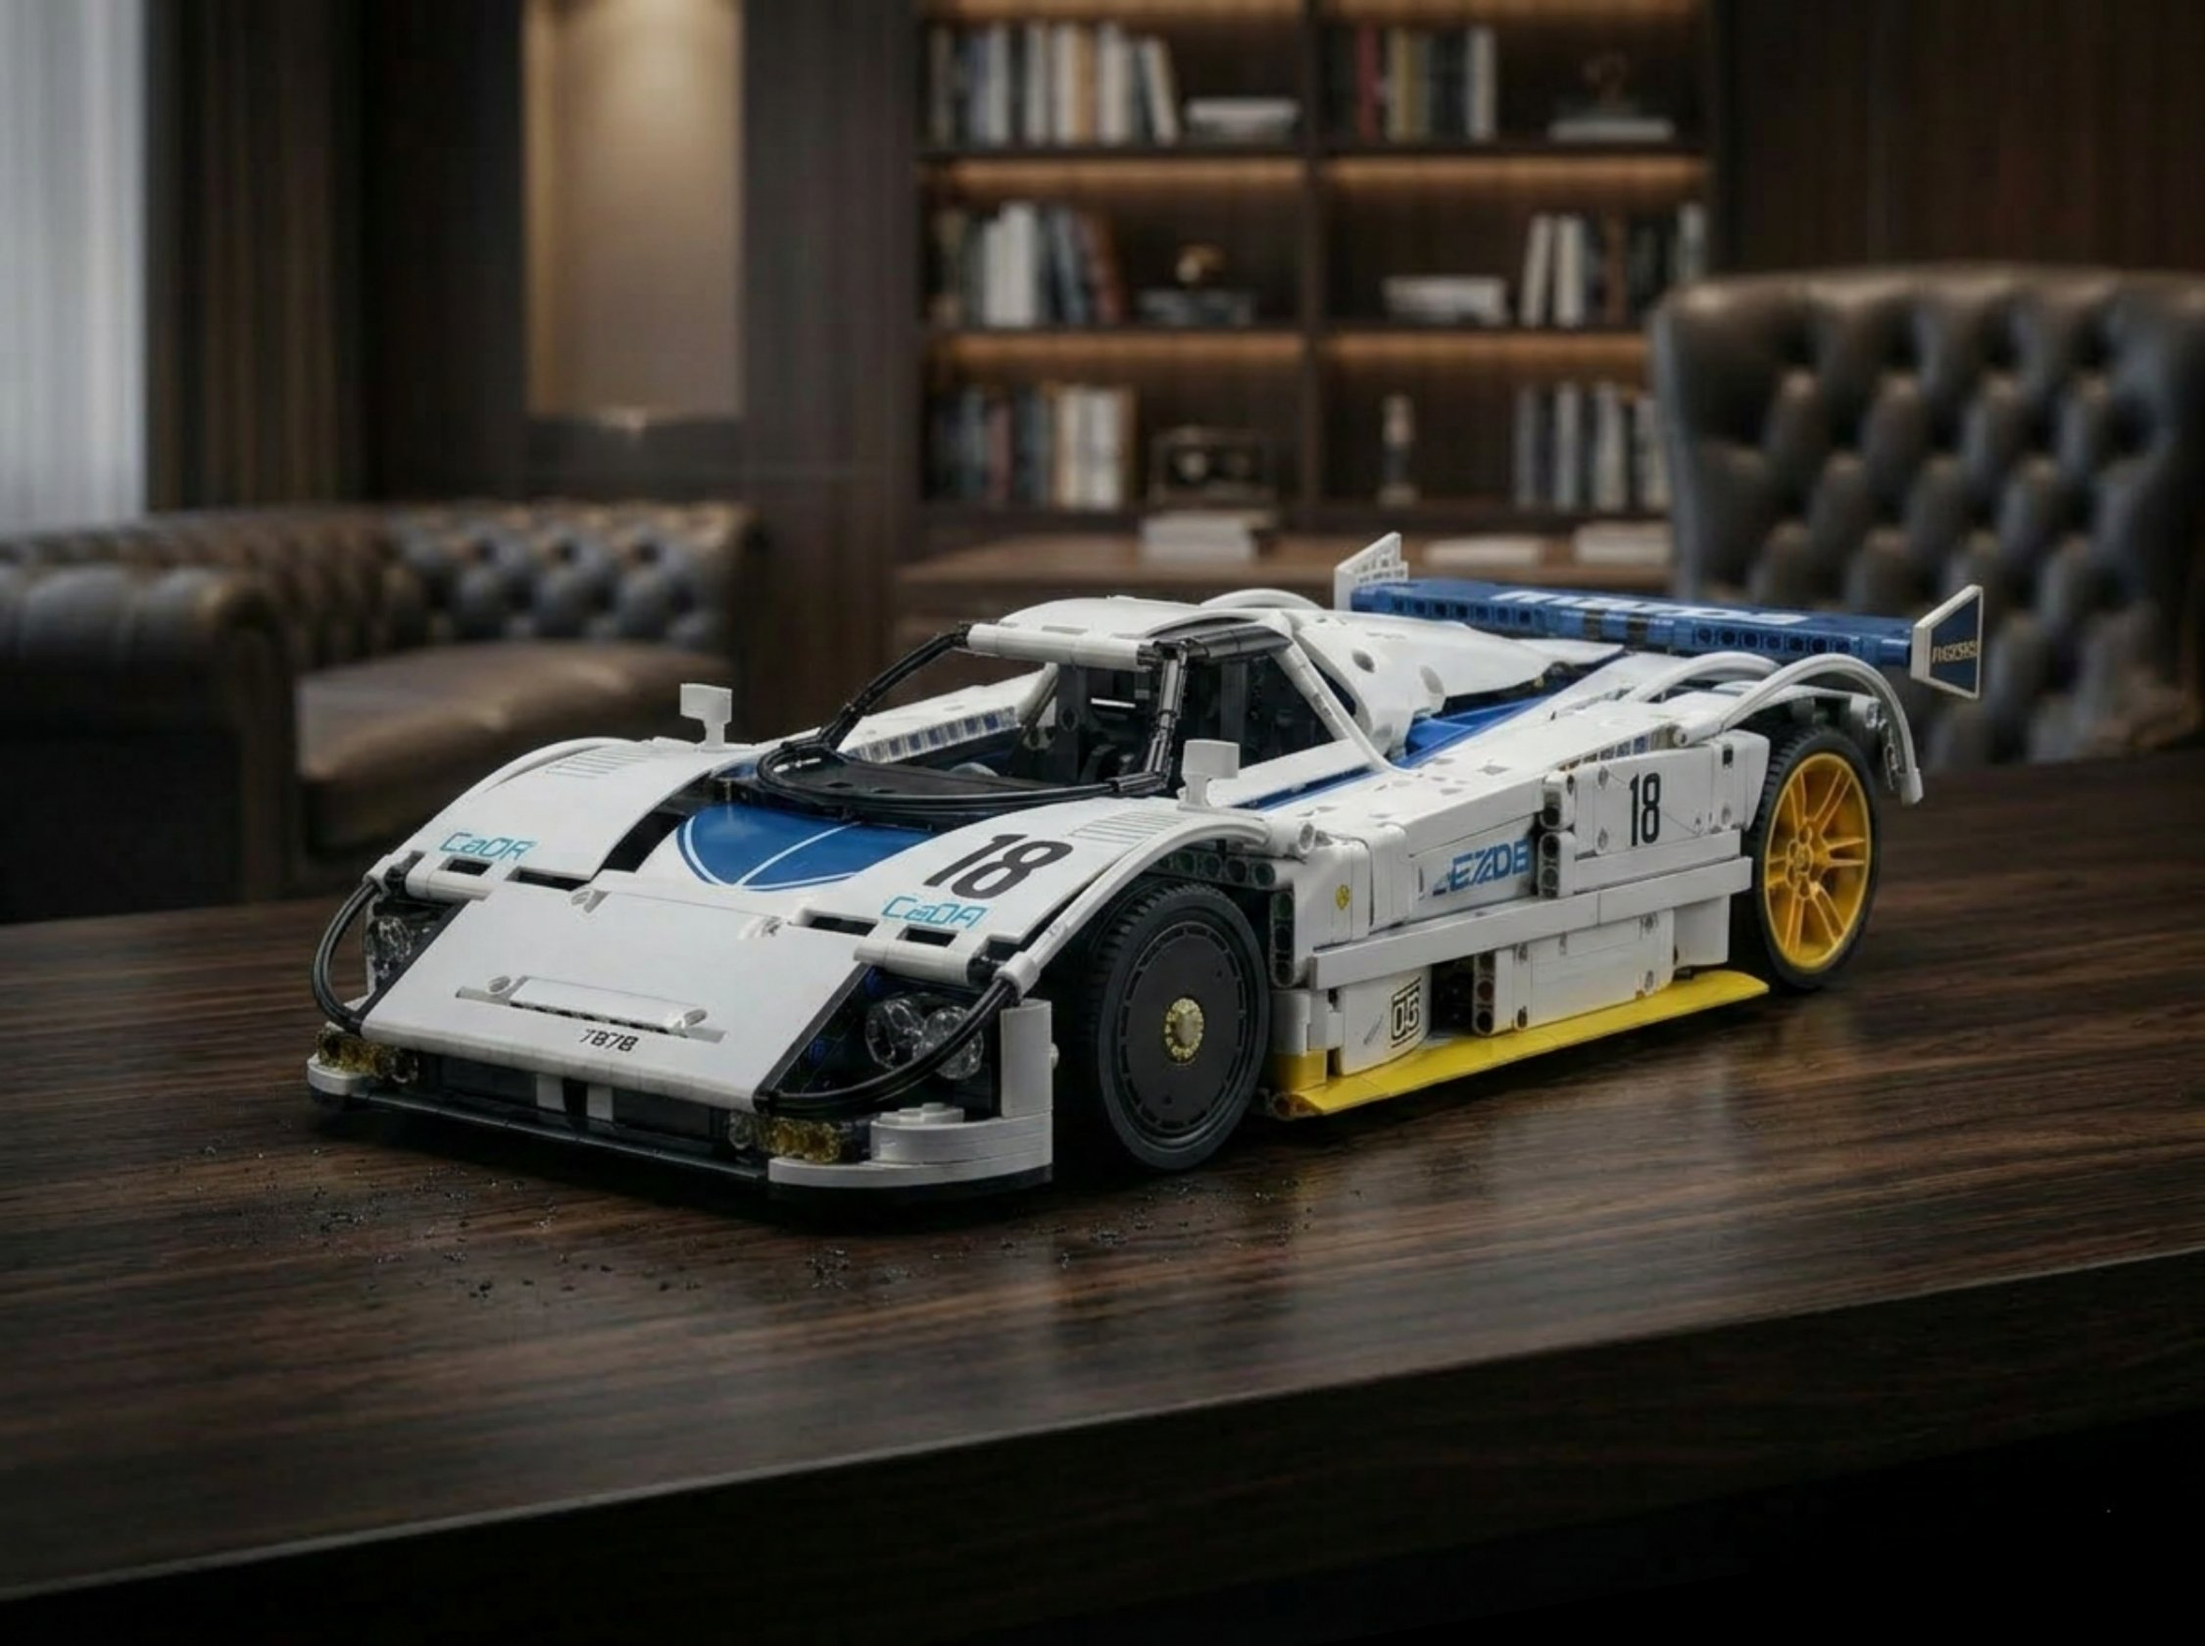
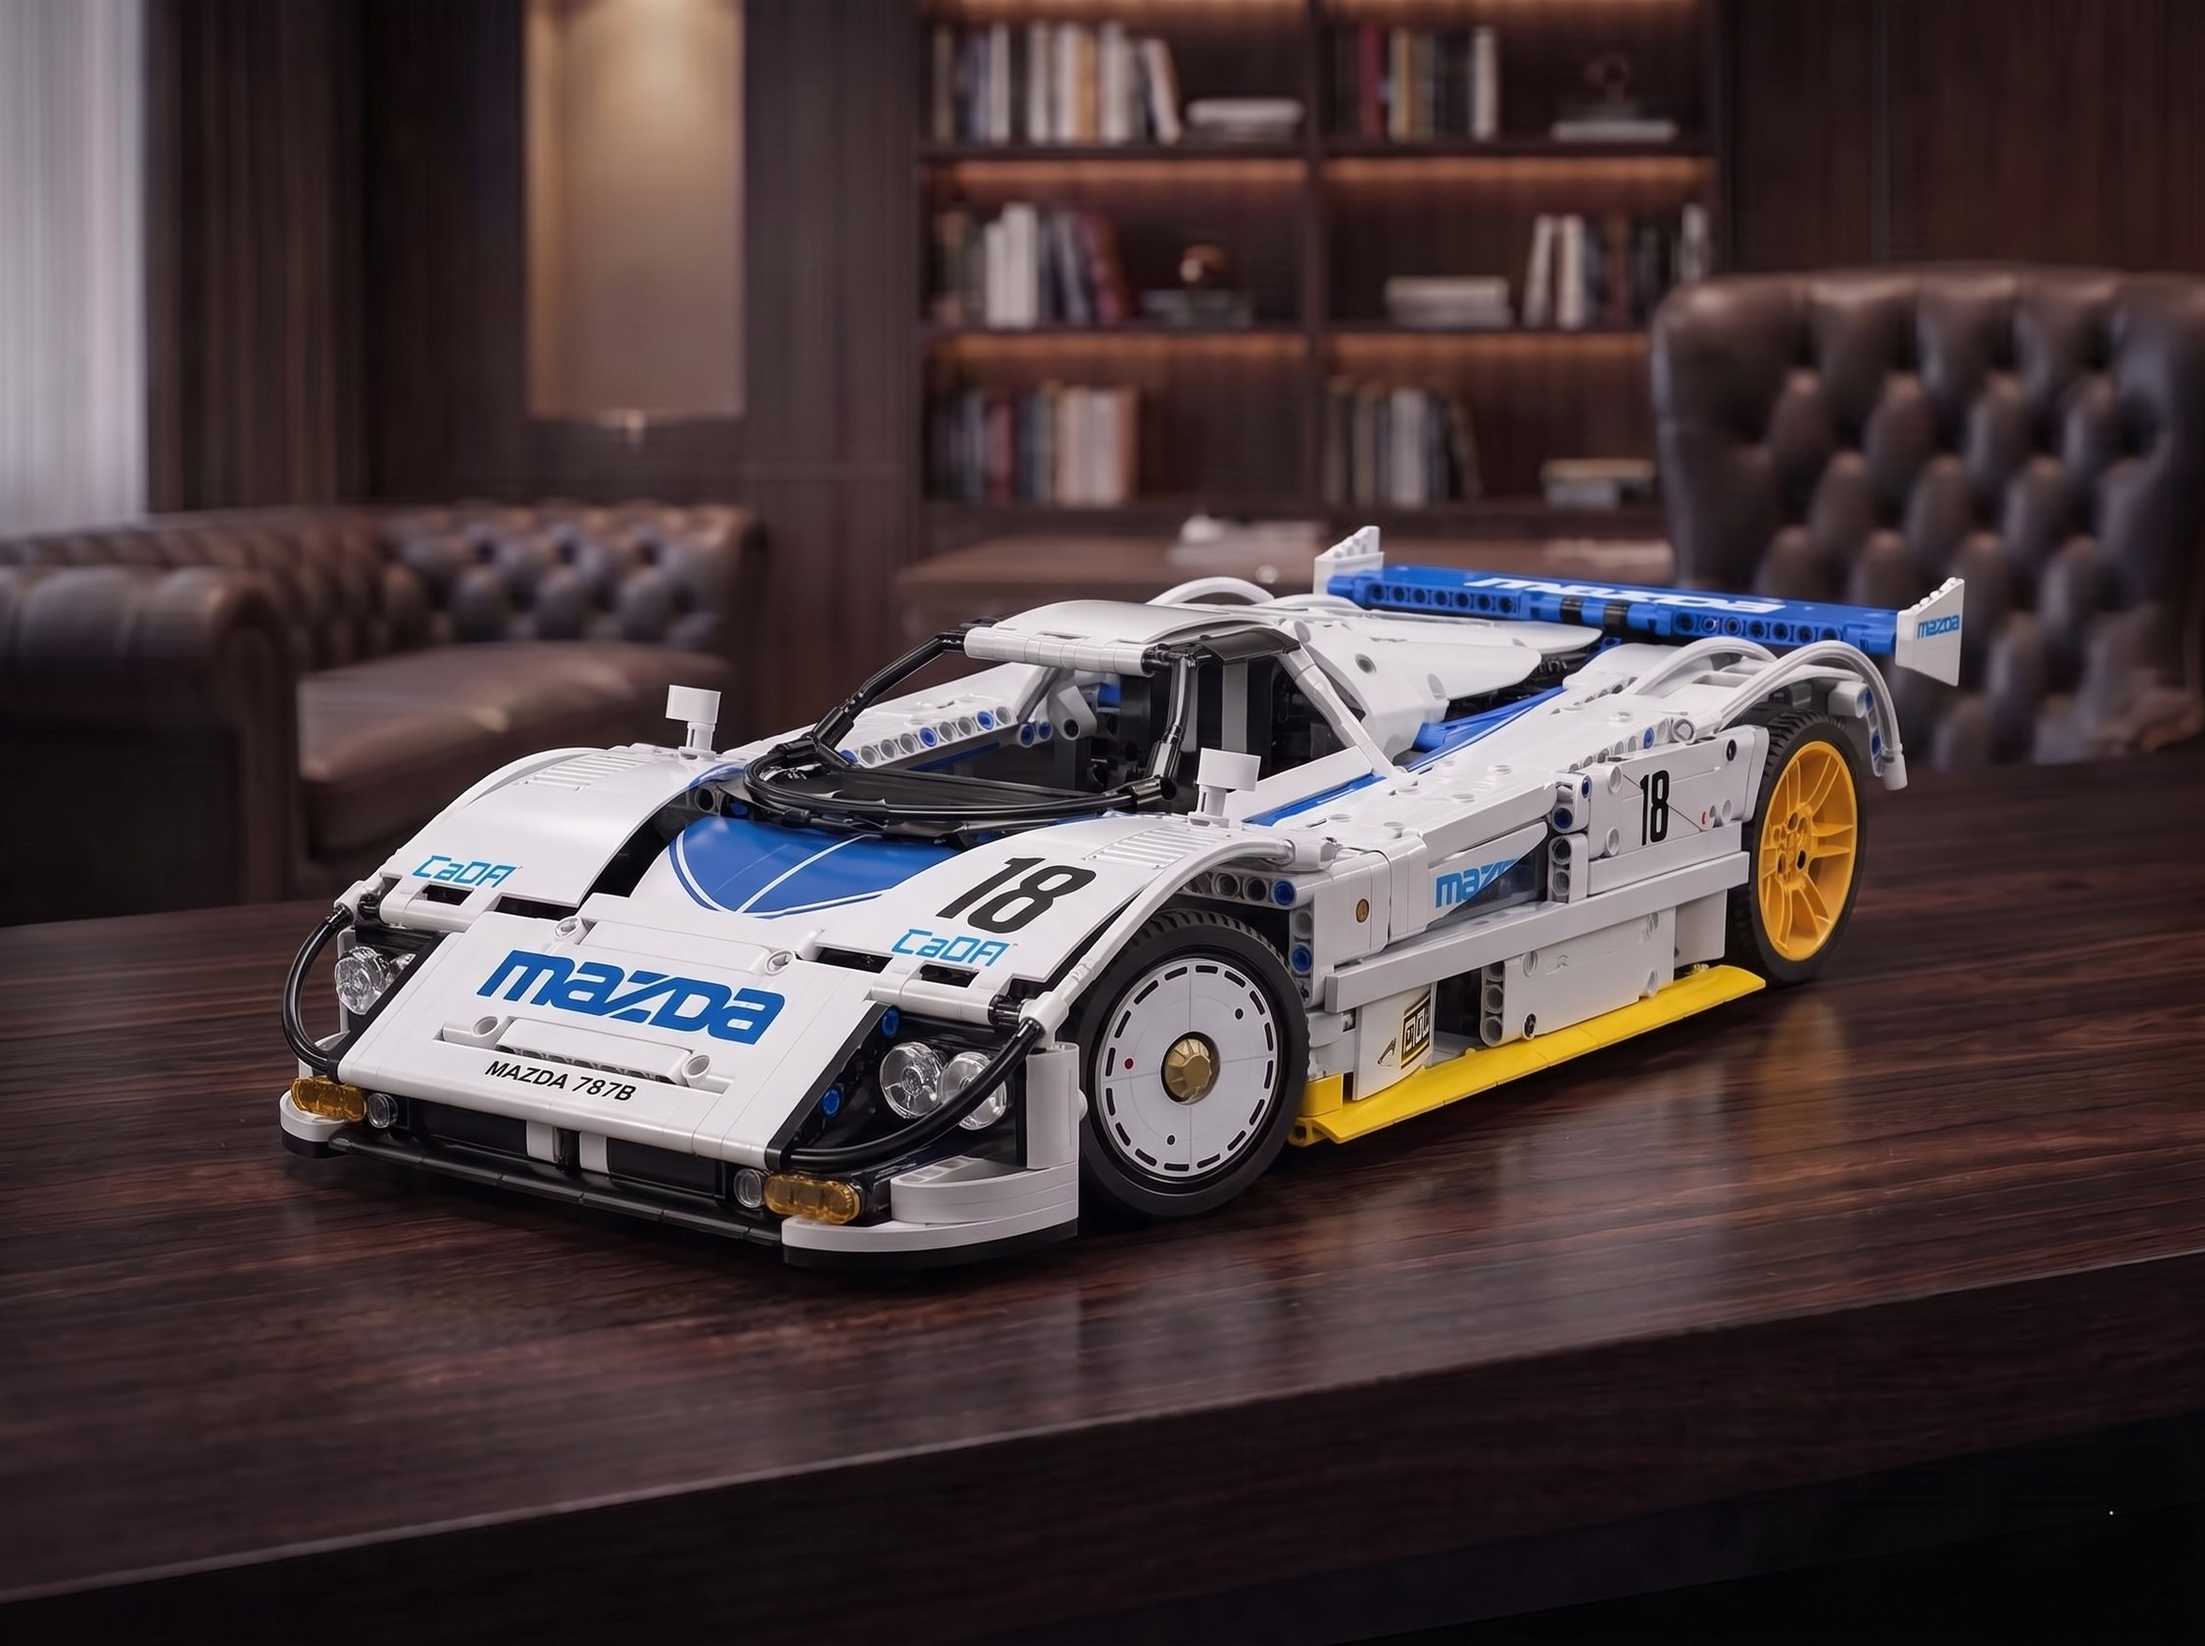
Fix S18-007 (Mazda 787B) cover and add gallery photos

diff --git a/site/src/lib/mockCatalog.ts b/site/src/lib/mockCatalog.ts
@@ -7,7 +7,7 @@ export const mockCatalog: CatalogProduct[] = [
   { id: 'S18-004', sku: 'S18-004', name: 'BMW M4 GT4', category: 'carro', brand_model: 'BMW M4 GT4', manufacturer: 'CBOX', collection_tag: 'Série GT', scale: '1:8', piece_count: 4556, sale_price_brl: 1739.36, image_url: '/products/S18-004.jpg', image_urls: ['/products/S18-004-frente.jpg', '/products/S18-004-traseira.jpg', '/products/S18-004-aberto.jpg', '/products/S18-004-motor.jpg', '/products/S18-004-interior.jpg', '/products/S18-004-caixa.jpg'], video_url: null, automotive_history: null, dimensions: null, spec_highlights: null, length_cm: null, height_cm: null, width_cm: null, quantity_available: 22 },
   { id: 'S18-005', sku: 'S18-005', name: 'Pagani Utopia', category: 'carro', brand_model: 'Pagani Utopia', manufacturer: 'CBOX', collection_tag: 'Supercarro', scale: '1:8', piece_count: 4688, sale_price_brl: 1353.66, image_url: '/products/S18-005.jpg', image_urls: [], video_url: null, automotive_history: null, dimensions: null, spec_highlights: null, length_cm: null, height_cm: null, width_cm: null, quantity_available: 8 },
   { id: 'S18-006', sku: 'S18-006', name: 'Lotus Exige Cup 430', category: 'carro', brand_model: 'Lotus Exige Cup 430', manufacturer: 'CADA', collection_tag: 'Supercarro', scale: '1:8', piece_count: 3730, sale_price_brl: 707.6, image_url: '/products/S18-006.jpg', image_urls: ['/products/S18-006-frente.jpg', '/products/S18-006-lateral.jpg', '/products/S18-006-traseira.jpg', '/products/S18-006-aberto.jpg', '/products/S18-006-motor.jpg', '/products/S18-006-caixa.jpg'], video_url: null, automotive_history: null, dimensions: null, spec_highlights: null, length_cm: null, height_cm: null, width_cm: null, quantity_available: 30 },
-  { id: 'S18-007', sku: 'S18-007', name: 'Mazda Le Mans Rally 787B', category: 'carro', brand_model: 'Mazda 787B', manufacturer: 'CADA', collection_tag: 'Lemans', scale: '1:8', piece_count: 1797, sale_price_brl: 642.99, image_url: '/products/S18-007.jpg', image_urls: [], video_url: null, automotive_history: null, dimensions: null, spec_highlights: null, length_cm: null, height_cm: null, width_cm: null, quantity_available: 2 },
+  { id: 'S18-007', sku: 'S18-007', name: 'Mazda Le Mans Rally 787B', category: 'carro', brand_model: 'Mazda 787B', manufacturer: 'CADA', collection_tag: 'Lemans', scale: '1:8', piece_count: 1797, sale_price_brl: 642.99, image_url: '/products/S18-007.jpg', image_urls: ['/products/S18-007-lateral.jpg', '/products/S18-007-traseira.jpg', '/products/S18-007-aberto.jpg', '/products/S18-007-caixa.jpg'], video_url: null, automotive_history: null, dimensions: null, spec_highlights: null, length_cm: null, height_cm: null, width_cm: null, quantity_available: 2 },
   { id: 'S18-008', sku: 'S18-008', name: '770-4 Touro Furioso', category: 'carro', brand_model: 'Pagani Huayra', manufacturer: 'CADA', collection_tag: 'Supercarro', scale: '1:8', piece_count: 3842, sale_price_brl: 1127.54, image_url: '/products/S18-008.jpg', image_urls: [], video_url: null, automotive_history: null, dimensions: null, spec_highlights: null, length_cm: null, height_cm: null, width_cm: null, quantity_available: 17 },
   { id: 'S18-009', sku: 'S18-009', name: 'Maserati Gran Turismo', category: 'carro', brand_model: 'Maserati Gran Turismo', manufacturer: 'REOBRIX', collection_tag: 'Supercarro', scale: '1:8', piece_count: 5480, sale_price_brl: 836.81, image_url: '/products/S18-009.jpg', image_urls: [], video_url: null, automotive_history: null, dimensions: null, spec_highlights: null, length_cm: null, height_cm: null, width_cm: null, quantity_available: 19 },
   { id: 'S18-010', sku: 'S18-010', name: 'Fórmula 1 Edição Especial', category: 'carro', brand_model: 'Fórmula 1', manufacturer: 'REOBRIX', collection_tag: 'Fórmula', scale: '1:8', piece_count: 3470, sale_price_brl: 916.8, image_url: '/products/S18-010.jpg', image_urls: [], video_url: null, automotive_history: null, dimensions: null, spec_highlights: null, length_cm: null, height_cm: null, width_cm: null, quantity_available: 25 },

diff --git a/docs/product-gallery-project.md b/docs/product-gallery-project.md
@@ -32,12 +32,13 @@ as fotos brutas enviadas pelo usuário (fundo branco/estúdio ou fotos
 | S18-016 | Land Rover Discovery | ✅ corrigida (carro errado) | ✅ 6 fotos (frente, lateral, traseira, detalhe, caixa) | `030` — já rodado pelo usuário | Primeiro produto feito; rodas tiveram que ser corrigidas (saíram pretas, deveriam ser prateadas) |
 | S18-004 | BMW M4 GT4 | ✅ já estava certa (rodas douradas conferidas) | ✅ 6 fotos (frente, traseira, aberto, motor, interior, caixa) | `038` — **rodar no Supabase** | Primeiro produto a usar a técnica de "detalhe com fundo trocado" (ver seção abaixo) |
 | S18-006 | Lotus Exige Cup 430 | ✅ já estava certa | ✅ 6 fotos (frente, lateral, traseira, aberto, motor, caixa) | `041` — **rodar no Supabase** | Marca real Lotus preservada (licenciada, aparece nas fotos brutas) |
+| S18-007 | Mazda 787B | ✅ corrigida (faltava a marca "mazda", licenciada oficial) | ✅ 4 fotos (lateral, traseira, aberto, caixa) | `042` — **rodar no Supabase** | Marca real Mazda preservada. Foto extra de "motor aberto por trás" foi gerada mas reprovada pelo usuário — não faz parte da galeria final |
 | S18-005 | Pagani Utopia | ✅ já estava certa | ⏸ pausado — fotos brutas iniciais em 220x220 (baixa demais), usuário vai subir 2 fotos em resolução melhor (behind, box) depois | — | Retomar quando usuário voltar a esse produto |
-| S18-007, 008, 009, 010, 012, 013, 014, 015, 017 | (9 restantes) | — | — | — | Fotos brutas já em `products-raw/` — ainda não processados. S18-007 (Mazda 787B) é o próximo da fila |
+| S18-008, 009, 010, 012, 013, 014, 015, 017 | (8 restantes) | — | — | — | Fotos brutas já em `products-raw/` — ainda não processados. S18-008 (Pagani Huayra) é o próximo da fila |
 
 **Ação pendente imediata ao retomar**: confirmar se o usuário já rodou as
-migrations `038` e `041` no SQL Editor do Supabase (031, 032, 033, 035 já
-confirmadas).
+migrations `038`, `041` e `042` no SQL Editor do Supabase (031, 032, 033,
+035 já confirmadas).
 
 ## Pipeline técnico (o que funciona)
 
